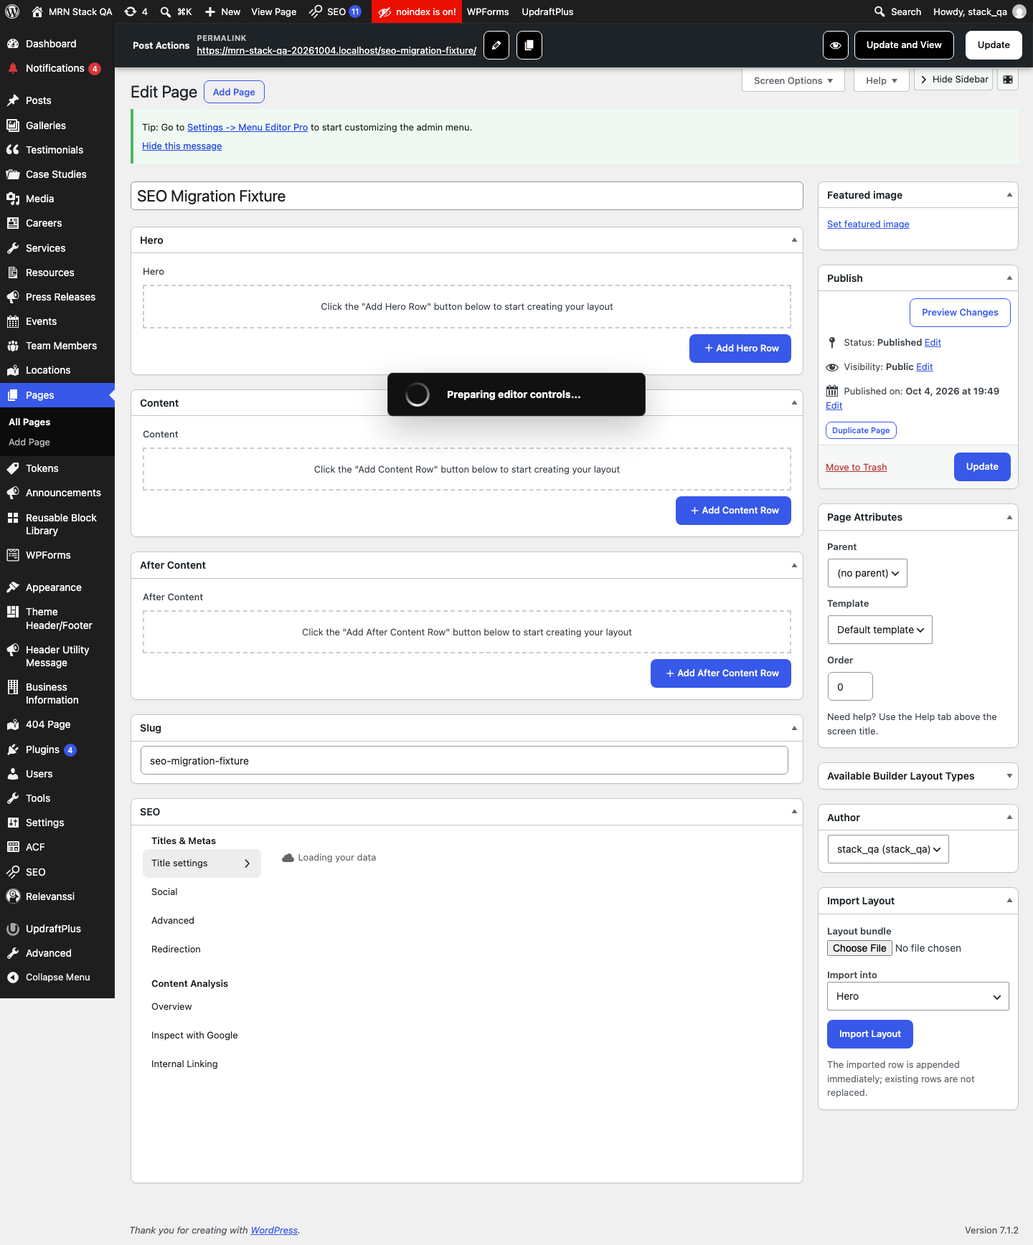
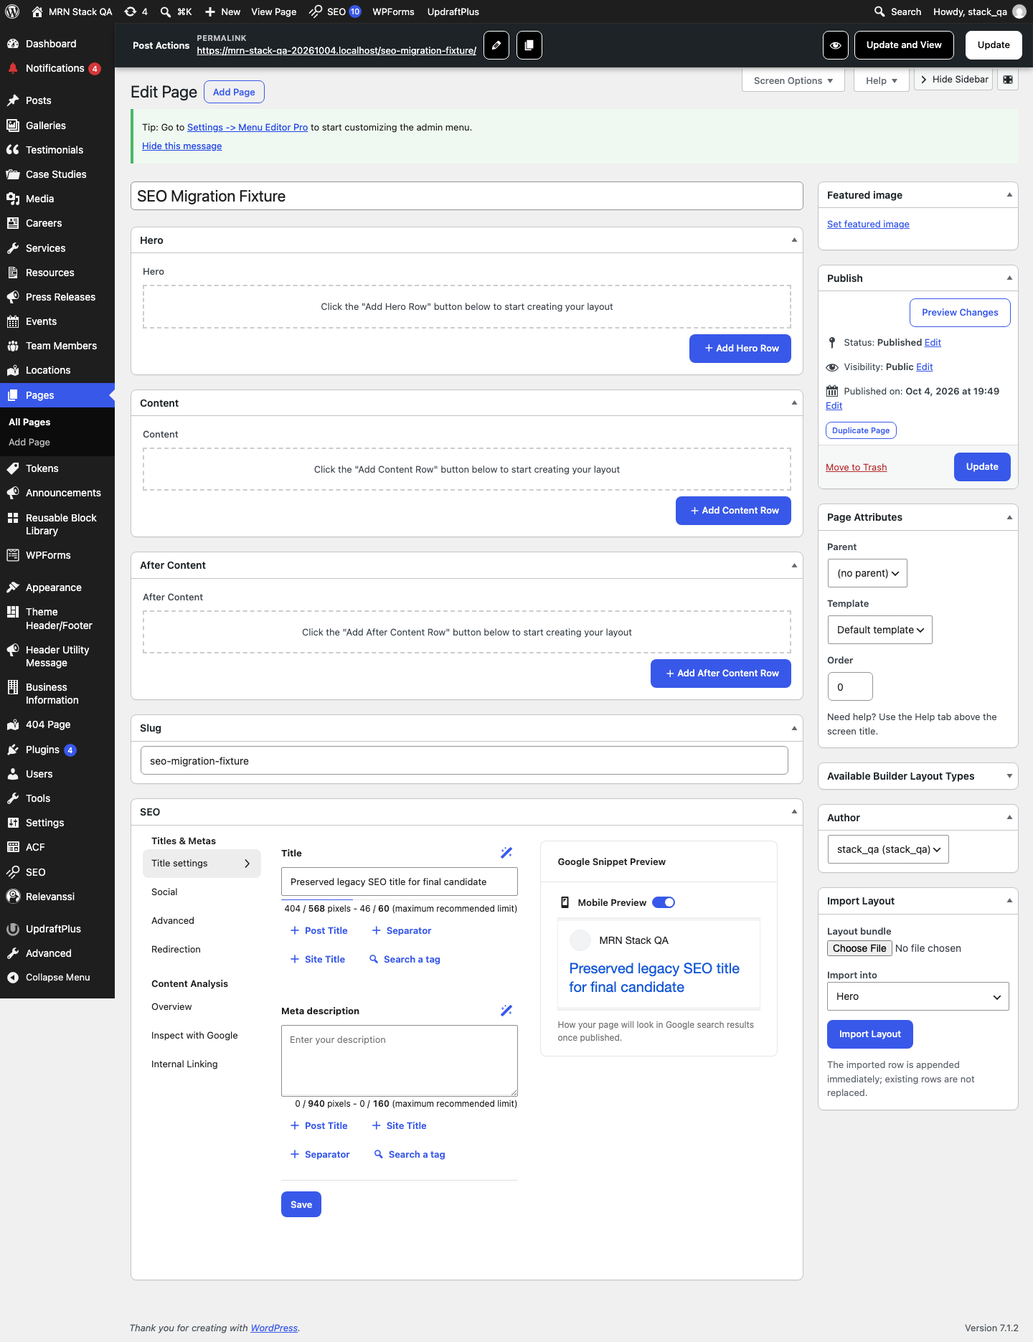
Finalize candidate source versions and qualification evidence

diff --git a/mu-plugins/mrn-updraft-local-retention/mrn-updraft-local-retention.php b/mu-plugins/mrn-updraft-local-retention/mrn-updraft-local-retention.php
@@ -3,7 +3,7 @@
  * Plugin Name: MRN Updraft Backup Policy
  * Description: Enforces the MRN Updraft backup policy, limits local backup sets, and repairs missing scheduled events.
  * Author: MRN Web Designs
- * Version: 0.6.0
+ * Version: 0.6.1
  */
 
 defined('ABSPATH') || exit;
@@ -345,7 +345,7 @@ function mrn_updraft_backup_policy_get_retention_status(): array {
 
 	return array(
 		'policy_version'        => '2026.09',
-		'plugin_version'        => '0.6.0',
+		'plugin_version'        => '0.6.1',
 		'expected_schedule'     => $expected_schedule,
 		'file_retention_cap'    => MRN_UPDRAFT_REMOTE_FILE_RETENTION_MAX_SETS,
 		'database_retention_cap' => MRN_UPDRAFT_REMOTE_DATABASE_RETENTION_MAX_SETS,

diff --git a/stack/mu-plugins/mrn-updraft-local-retention.php b/stack/mu-plugins/mrn-updraft-local-retention.php
@@ -2,7 +2,7 @@
 /**
  * Plugin Name: MRN Updraft Backup Policy
  * Description: Loads the MRN Updraft backup policy MU plugin from its subfolder.
- * Version: 0.6.0
+ * Version: 0.6.1
  *
  * Bootstrap loader for the Updraft local retention MU plugin.
  */

diff --git a/stack/release-evidence/2026-10-04-simplification/updraft-metadata-qa.md b/stack/release-evidence/2026-10-04-simplification/updraft-metadata-qa.md
@@ -1,0 +1,94 @@
+1) Changes Summary By Repo
+- In-scope repos detected: 1
+- Repo: /Users/khofmeyer/Development/MRN-stack-simplification-20261004
+  - branch: codex/stack-simplification-20261004
+  - commit: 10d51dd29fc0da458d1ea6e0e9495b5c47e7591b
+  - tag: none
+  - working tree: dirty
+- Changed files (project root):
+  - mu-plugins/mrn-updraft-local-retention/mrn-updraft-local-retention.php
+  - stack/CHANGELOG.md
+  - stack/STACK_VERSION.md
+  - stack/manifests/component-catalog.json
+  - stack/mu-plugins/mrn-updraft-local-retention.php
+
+2) Release Readiness Summary
+- Mode: standard
+- Scope: site+stack
+- Approved ref mode: working-tree
+- Playwright provider: engine
+- Project root: /Users/khofmeyer/Development/MRN-stack-simplification-20261004
+- Project: MRN-stack-simplification-20261004
+- Project kind: stack
+- Runtime target source: cli
+- Site path: /Users/khofmeyer/Development/MRN-sites/mrn-stack-qa-20261004/public
+- Site URL: https://mrn-stack-qa-20261004.localhost
+- Change policy: wordpress=1, frontend=0, admin=1, api=0, security=1, docs_only=0
+- Auto gates: smoke=auto, accessibility=auto, performance=auto, api=auto, phpcbf=never, secrets=auto, debug_artifacts=auto, php_compat=auto, readme_version=auto, cwv=auto
+
+3) Tool Execution Report
+| Tool | Ran/Skipped | Pass/Fail | Repo/Path | Notes |
+| --- | --- | --- | --- | --- |
+| PHP lint | Ran | Pass | /Users/khofmeyer/Development/MRN-stack-simplification-20261004 | 2 files linted |
+| PHPCS | Ran | Pass | /Users/khofmeyer/Development/MRN-stack-simplification-20261004 | 2 PHP target(s) passed security sniffs (memory_limit=2G, parallel=1) |
+| WordPress best practices | Ran | Pass | /Users/khofmeyer/Development/MRN-stack-simplification-20261004 | 2 PHP target(s) passed WordPress standard (memory_limit=2G, parallel=1, chunk_size=40) |
+| PHPCBF | Skipped | Pass | /Users/khofmeyer/Development/MRN-stack-simplification-20261004 | MRN_QA_RUN_PHPCBF=never |
+| PHP compatibility | Ran | Pass | /Users/khofmeyer/Development/MRN-stack-simplification-20261004 | 2 PHP target(s) compatible with testVersion=7.4-8.3 |
+| PHPStan | Ran | Pass | /Users/khofmeyer/Development/MRN-stack-simplification-20261004 | static analysis passed |
+| Semgrep | Ran | Pass | /Users/khofmeyer/Development/MRN-stack-simplification-20261004 | no blocking findings |
+| Secrets scan | Ran | Pass | /Users/khofmeyer/Development/MRN-stack-simplification-20261004 | 3 file(s) scanned for hardcoded secrets |
+| Debug artifact scan | Ran | Pass | /Users/khofmeyer/Development/MRN-stack-simplification-20261004 | 2 file(s) scanned for debug artifacts |
+| WordPress API surface audit | Skipped | Pass | /Users/khofmeyer/Development/MRN-stack-simplification-20261004 | not applicable: no API-related changes detected |
+| WordPress API runtime smoke | Ran | Pass | https://mrn-stack-qa-20261004.localhost/wp-json/ | REST index returned HTTP 200 |
+| git diff --check | Ran | Pass | /Users/khofmeyer/Development/MRN-stack-simplification-20261004 | no whitespace errors |
+| Readme/version consistency | Skipped | Pass | /Users/khofmeyer/Development/MRN-stack-simplification-20261004 | not applicable: no plugin main file or theme style.css detected |
+| audit-config-helper-parity.sh | Ran | Pass (with warnings) | /Users/khofmeyer/Development/MRN-stack-simplification-20261004/stack/scripts/audit-config-helper-parity.sh | advisory mode: nethues-sandbox.mrndev.io,nethues-stack,yes,0.1.43,0.1.64,mismatch,nethues-stack:nethues-stack,yes,yes swccp.mrndev.io,swccp-stack,yes,0.1.53,0.1.64,mismatch,swccp-stack:swccp-stack,yes,yes therapyinnovations.mrndev.io,therapyinnovations,no,missing,0.1.64,n/a,missing:missing,no,no trilliant.mrndev.io,trilliant-stack,yes,0.1.68,0.1.64,mismatch,trilliant-stack:trilliant-stack,yes,yes tutorlms.mrndev.io,tutorlms,no,missing,0.1.64,n/a,missing:missing,no,no Parity/readiness failures: 7  |
+| qa-theme.sh | Skipped | Pass | /Users/khofmeyer/Development/MRN-stack-simplification-20261004/stack/scripts/qa-theme.sh | not applicable: skipped by scope |
+| qa-security.sh | Ran | Pass | /Users/khofmeyer/Development/MRN-stack-simplification-20261004/stack/scripts/qa-security.sh | security QA passed for 1 theme target(s) |
+| qa-playwright-local-stack-site.sh | Ran | Pass | /Users/khofmeyer/Development/MRN-qa-engine/tools/run-playwright-smoke.sh | engine, scope=public |
+| Accessibility smoke | Ran | Pass | /Users/khofmeyer/Development/MRN-qa-engine/tools/run-accessibility-smoke.sh | homepage and /contact/ accessibility smoke passed \| /: no aria-expanded/aria-haspopup="dialog" interactive elements found. /contact/: no aria-expanded/aria-haspopup="dialog" interactive elements found.  |
+| qa-page-speed.sh | Ran | Pass | /Users/khofmeyer/Development/MRN-stack-simplification-20261004/stack/scripts/qa-page-speed.sh | page-speed checks passed (ttfb<=2.0s,total<=5.0s) |
+| Core Web Vitals | Ran | Pass | /Users/khofmeyer/Development/MRN-qa-engine/tools/run-web-vitals-smoke.sh | 0 poor, 0 needs-improvement across 2 path(s) \| /: LCP=428ms (good), CLS=0 (good), INP=not measured \| /contact/: LCP=508ms (good), CLS=0 (good), INP=not measured |
+| qa-license-coverage.sh | Ran | Pass | /Users/khofmeyer/Development/MRN-stack-simplification-20261004/stack/scripts/qa-license-coverage.sh | all packaged plugins have a license mapping or declared exemption |
+| qa-rollout-contract.sh | Ran | Pass (with warnings) | /Users/khofmeyer/Development/MRN-stack-simplification-20261004/stack/scripts/qa-rollout-contract.sh | advisory mode: PASS: Required Stack plugin manifest includes mrn-universal-sticky-bar FAIL: Standalone sticky-toolbar fallback not found: /Users/khofmeyer/Development/MRN-stack-simplification-20261004/plugins/mrn-universal-sticky-bar/includes/mrn-sticky-settings-toolbar.php  |
+| qa-local-stack-site.sh | Ran | Pass | /Users/khofmeyer/Development/MRN-stack-simplification-20261004/stack/scripts/qa-local-stack-site.sh | passed |
+| ESLint | Skipped | Pass | /Users/khofmeyer/Development/MRN-stack-simplification-20261004 | not applicable: root package.json missing |
+| Stylelint | Skipped | Pass | /Users/khofmeyer/Development/MRN-stack-simplification-20261004 | not applicable: root package.json missing |
+| Composer audit | Ran | Pass | /Users/khofmeyer/Development/MRN-stack-simplification-20261004 | no known advisories |
+| npm audit | Skipped | Pass | /Users/khofmeyer/Development/MRN-stack-simplification-20261004 | not applicable: root package-lock.json missing |
+| PHPUnit | Skipped | Pass | /Users/khofmeyer/Development/MRN-stack-simplification-20261004 | not applicable: phpunit or config missing |
+| **OVERALL** | Ran | Pass | all in-scope repos | 100% SUCCESS |
+
+**Release QA Result: 100% SUCCESS**
+
+4) Verification Steps
+- Verified repo release state for each in-scope repository.
+- Classified changes into WordPress, frontend, admin, API, security, and docs-only policy buckets.
+- Executed standardized QA toolchain rows with pass/fail evidence.
+- Applied policy-aware WordPress/API/accessibility/performance/runtime checks.
+
+5) Missing Release Items
+- none
+
+6) Rollout Risks
+- Deploying out of order can desync site and stack expectations; verify scope before release.
+
+7) Security Concerns
+- Review nonce, capability, sanitization, and escaping in any failing PHPCS/Semgrep/API rows.
+
+8) Accessibility Concerns
+- Accessibility smoke runs automatically for frontend/release runtime targets; complete manual WCAG review for material UI changes.
+
+9) Performance Concerns
+- Performance timing runs automatically for frontend/release runtime targets; complete deeper Lighthouse review for material rendering changes.
+
+10) Classification:
+- release blockers
+- none
+- should-fix-before-release
+- none
+- follow-up items
+- none
+
+11) Cross-Repo Coordination Risks
+- Site+stack scope selected: coordinate stack rollout order before deploy.

diff --git a/stack/release-evidence/2026-10-04-simplification/full-release-qa.md b/stack/release-evidence/2026-10-04-simplification/full-release-qa.md
@@ -1,0 +1,89 @@
+1) Changes Summary By Repo
+- In-scope repos detected: 1
+- Repo: /Users/khofmeyer/Development/MRN-stack-simplification-20261004
+  - branch: codex/stack-simplification-20261004
+  - commit: 94670df5b23be7e11b23f19d5230aa1006bb1385
+  - tag: none
+  - working tree: clean
+- Changed files: none detected
+
+2) Release Readiness Summary
+- Mode: release
+- Scope: site+stack
+- Approved ref mode: approved-clean-working-tree
+- Playwright provider: engine
+- Project root: /Users/khofmeyer/Development/MRN-stack-simplification-20261004
+- Project: MRN-stack-simplification-20261004
+- Project kind: stack
+- Runtime target source: cli
+- Site path: /Users/khofmeyer/Development/MRN-sites/mrn-stack-qa-20261004/public
+- Site URL: https://mrn-stack-qa-20261004.localhost
+- Change policy: wordpress=1, frontend=1, admin=1, api=1, security=1, docs_only=0
+- Auto gates: smoke=auto, accessibility=auto, performance=auto, api=auto, phpcbf=never, secrets=auto, debug_artifacts=auto, php_compat=auto, readme_version=auto, cwv=auto
+
+3) Tool Execution Report
+| Tool | Ran/Skipped | Pass/Fail | Repo/Path | Notes |
+| --- | --- | --- | --- | --- |
+| PHP lint | Ran | Pass | /Users/khofmeyer/Development/MRN-stack-simplification-20261004 | 154 files linted |
+| PHPCS | Ran | Pass | /Users/khofmeyer/Development/MRN-stack-simplification-20261004 | 23 PHP target(s) passed security sniffs (memory_limit=2G, parallel=1) |
+| WordPress best practices | Ran | Pass | /Users/khofmeyer/Development/MRN-stack-simplification-20261004 | 23 PHP target(s) passed WordPress standard (memory_limit=2G, parallel=1, chunk_size=40) |
+| PHPCBF | Skipped | Pass | /Users/khofmeyer/Development/MRN-stack-simplification-20261004 | MRN_QA_RUN_PHPCBF=never |
+| PHP compatibility | Ran | Pass | /Users/khofmeyer/Development/MRN-stack-simplification-20261004 | 23 PHP target(s) compatible with testVersion=7.4-8.3 |
+| PHPStan | Ran | Pass | /Users/khofmeyer/Development/MRN-stack-simplification-20261004 | static analysis passed |
+| Semgrep | Ran | Pass | /Users/khofmeyer/Development/MRN-stack-simplification-20261004 | no blocking findings |
+| Secrets scan | Ran | Pass | /Users/khofmeyer/Development/MRN-stack-simplification-20261004 | 288 file(s) scanned for hardcoded secrets |
+| Debug artifact scan | Ran | Pass | /Users/khofmeyer/Development/MRN-stack-simplification-20261004 | 181 file(s) scanned for debug artifacts (2 error_log() call(s) noted separately, informational only) |
+| WordPress API surface audit | Ran | Pass | /Users/khofmeyer/Development/MRN-stack-simplification-20261004 | 4 API surface file(s) checked |
+| WordPress API runtime smoke | Ran | Pass | https://mrn-stack-qa-20261004.localhost/wp-json/ | REST index returned HTTP 200 |
+| git diff --check | Ran | Pass | /Users/khofmeyer/Development/MRN-stack-simplification-20261004 | no whitespace errors |
+| Readme/version consistency | Skipped | Pass | /Users/khofmeyer/Development/MRN-stack-simplification-20261004 | not applicable: no plugin main file or theme style.css detected |
+| audit-config-helper-parity.sh | Ran | Pass (with warnings) | /Users/khofmeyer/Development/MRN-stack-simplification-20261004/stack/scripts/audit-config-helper-parity.sh | advisory mode: nethues-sandbox.mrndev.io,nethues-stack,yes,0.1.43,0.1.64,mismatch,nethues-stack:nethues-stack,yes,yes swccp.mrndev.io,swccp-stack,yes,0.1.53,0.1.64,mismatch,swccp-stack:swccp-stack,yes,yes therapyinnovations.mrndev.io,therapyinnovations,no,missing,0.1.64,n/a,missing:missing,no,no trilliant.mrndev.io,trilliant-stack,yes,0.1.68,0.1.64,mismatch,trilliant-stack:trilliant-stack,yes,yes tutorlms.mrndev.io,tutorlms,no,missing,0.1.64,n/a,missing:missing,no,no Parity/readiness failures: 7  |
+| qa-theme.sh | Ran | Pass | /Users/khofmeyer/Development/MRN-stack-simplification-20261004/stack/scripts/qa-theme.sh | theme QA passed |
+| qa-security.sh | Ran | Pass | /Users/khofmeyer/Development/MRN-stack-simplification-20261004/stack/scripts/qa-security.sh | security QA passed for 1 theme target(s) |
+| qa-playwright-local-stack-site.sh | Ran | Pass | /Users/khofmeyer/Development/MRN-qa-engine/tools/run-playwright-smoke.sh | engine, scope=public |
+| Accessibility smoke | Ran | Pass | /Users/khofmeyer/Development/MRN-qa-engine/tools/run-accessibility-smoke.sh | homepage and /contact/ accessibility smoke passed \| /: no aria-expanded/aria-haspopup="dialog" interactive elements found. /contact/: no aria-expanded/aria-haspopup="dialog" interactive elements found.  |
+| qa-page-speed.sh | Ran | Pass | /Users/khofmeyer/Development/MRN-stack-simplification-20261004/stack/scripts/qa-page-speed.sh | page-speed checks passed (ttfb<=2.0s,total<=5.0s) |
+| Core Web Vitals | Ran | Pass | /Users/khofmeyer/Development/MRN-qa-engine/tools/run-web-vitals-smoke.sh | 0 poor, 0 needs-improvement across 2 path(s) \| /: LCP=984ms (good), CLS=0 (good), INP=16ms (good) \| /contact/: LCP=884ms (good), CLS=0 (good), INP=not measured |
+| qa-license-coverage.sh | Ran | Pass | /Users/khofmeyer/Development/MRN-stack-simplification-20261004/stack/scripts/qa-license-coverage.sh | all packaged plugins have a license mapping or declared exemption |
+| qa-rollout-contract.sh | Ran | Pass (with warnings) | /Users/khofmeyer/Development/MRN-stack-simplification-20261004/stack/scripts/qa-rollout-contract.sh | advisory mode: PASS: Required Stack plugin manifest includes mrn-universal-sticky-bar FAIL: Standalone sticky-toolbar fallback not found: /Users/khofmeyer/Development/MRN-stack-simplification-20261004/plugins/mrn-universal-sticky-bar/includes/mrn-sticky-settings-toolbar.php  |
+| qa-local-stack-site.sh | Ran | Pass | /Users/khofmeyer/Development/MRN-stack-simplification-20261004/stack/scripts/qa-local-stack-site.sh | passed |
+| ESLint | Skipped | Pass | /Users/khofmeyer/Development/MRN-stack-simplification-20261004 | not applicable: root package.json missing |
+| Stylelint | Skipped | Pass | /Users/khofmeyer/Development/MRN-stack-simplification-20261004 | not applicable: root package.json missing |
+| Composer audit | Ran | Pass | /Users/khofmeyer/Development/MRN-stack-simplification-20261004 | no known advisories |
+| npm audit | Skipped | Pass | /Users/khofmeyer/Development/MRN-stack-simplification-20261004 | not applicable: root package-lock.json missing |
+| PHPUnit | Skipped | Pass | /Users/khofmeyer/Development/MRN-stack-simplification-20261004 | not applicable: phpunit or config missing |
+| **OVERALL** | Ran | Pass | all in-scope repos | 100% SUCCESS |
+
+**Release QA Result: 100% SUCCESS**
+
+4) Verification Steps
+- Verified repo release state for each in-scope repository.
+- Classified changes into WordPress, frontend, admin, API, security, and docs-only policy buckets.
+- Executed standardized QA toolchain rows with pass/fail evidence.
+- Applied policy-aware WordPress/API/accessibility/performance/runtime checks.
+
+5) Missing Release Items
+- none
+
+6) Rollout Risks
+- Deploying out of order can desync site and stack expectations; verify scope before release.
+
+7) Security Concerns
+- Review nonce, capability, sanitization, and escaping in any failing PHPCS/Semgrep/API rows.
+
+8) Accessibility Concerns
+- Accessibility smoke runs automatically for frontend/release runtime targets; complete manual WCAG review for material UI changes.
+
+9) Performance Concerns
+- Performance timing runs automatically for frontend/release runtime targets; complete deeper Lighthouse review for material rendering changes.
+
+10) Classification:
+- release blockers
+- none
+- should-fix-before-release
+- none
+- follow-up items
+- none
+
+11) Cross-Repo Coordination Risks
+- Site+stack scope selected: coordinate stack rollout order before deploy.

diff --git a/stack/STACK_VERSION.md b/stack/STACK_VERSION.md
@@ -1,7 +1,7 @@
 # Stack Version
 
 ## Candidate Release
-- Stack release: `2026.10.04-stack-simplification`
+- Stack release: `2026.10.04-stack-simplification-r2`
 - Release date: `2026-10-04`
 - Status: `locked release candidate; production promotion and optional integration qualification remain gated`
 
@@ -23,8 +23,8 @@
   - `mrn-public-security-hardening` `0.4.3`
   - `mrn-schema-bridge` `0.7.0`
   - `mrn-site-colors` / `Site Styles` `0.1.39`
-  - `mrn-updraft-backup-policy-loader` `0.6.0`
-  - `mrn-updraft-local-retention` `0.6.0`
+  - `mrn-updraft-backup-policy-loader` `0.6.1`
+  - `mrn-updraft-local-retention` `0.6.1`
 - Standard plugins:
   - `background-video-popout-disabler` `1.0.2`
   - `mrn-acf-focal-point` `1.1.2`
@@ -52,12 +52,18 @@
 - License manifest: [`manifests/licenses.txt`](/Users/khofmeyer/Development/MRN/stack/manifests/licenses.txt)
 - Importer manifest: [`manifests/importers.txt`](/Users/khofmeyer/Development/MRN/stack/manifests/importers.txt)
 
-## Notes
+## Candidate scope
 - October 4 reconciles native SEOPress 10.3, Post SMTP, retired duplicate editors,
   metadata-preserving migration and development SEO controls. The prior verified
   release remains `2026.10.02-ame-menu-visibility` on its recorded target.
   The candidate does not authorize a site migration. See
   `docs/STACK-SIMPLIFICATION-2026-10.md` and the October 4 release evidence.
+
+## Historical release notes
+
+The entries below describe their dated releases and original target authorizations;
+they do not establish deployment or qualification of the October 4 candidate.
+
 - Public Security Hardening `0.4.3` respects Admin Menu Editor's finalized
   visibility, permissions, labels and placement. It no longer restores a
   hidden Advanced/Public Security menu after AME has applied role rules.
@@ -149,10 +155,7 @@
   split home/siteurl installs. Default endpoint protection and encoded query
   arguments are preserved. The existing login container gains a main landmark
   without altering its structure. Component release QA and real HTTP flows pass.
-- Apart from MRN Tokens, this candidate retains all other component versions and exact source trees
-  from the prior complete Fleet release. Site qualification, prerequisites,
-  fresh remote backup and post-deployment verification remain required.
-- This file tracks the current stack baseline, not every historical package ever shipped.
+- Site qualification, prerequisites, fresh remote backup and post-deployment verification remain required.
 - Third-party packages in `manifests/plugins.txt` keep their own upstream versions and package filenames.
 - Current baseline keeps the canonical AME export payloads, importer/manifests, bootstrap helper, shared shim, and stack MU wrapper loaders tracked in the main repo so release/deploy flows can verify and sync them consistently.
 - Current baseline includes bounded recovery inventory and guarded reconciliation for exact, unchanged incomplete rollout markers that are physically empty or contain only recognized empty apply scaffolding, without introducing recursive deletion.

diff --git a/stack/release-evidence/2026-10-04-simplification/README.md b/stack/release-evidence/2026-10-04-simplification/README.md
@@ -1,6 +1,10 @@
 # October 4 Stack reconciliation evidence
 
-The source is merged in MRN PR 177 and the component PRs linked in the decision record. Reports preserve their actual scope and date. The final Stack source/runtime report passes strict static analysis, API, browser, accessibility, performance and CWV. It is a standard/component run, not fleet release signoff; its parity row remains advisory and identifies older development sites.
+The source is merged in MRN PR 177 and the component PRs linked in the decision record. Reports preserve their actual scope and date. The final Stack source/runtime report passes strict static analysis, API, browser, accessibility, performance and CWV.
+
+`full-release-qa.md` is the broader release-mode run against `mrn-stack-qa-20261004.localhost`. Its generated overall success label does **not** override advisory failures: seven development installations differ from the hosted Config Helper baseline, and the legacy rollout script cannot resolve the standalone sticky-toolbar source from the task worktree. The hosted source and exact candidate need independent rollout reconciliation. No production rollout or fleet signoff is established by that report. PHPCBF was intentionally disabled; root ESLint/Stylelint, npm audit and PHPUnit were inapplicable because their root configurations are absent. API, browser, accessibility, performance, PHP/static/security and Composer checks ran.
+
+`first-candidate-runtime.json` records a valid installed lock with no missing components, drift or legacy collisions on the isolated fixture. `first-candidate-mainwp-preflight.json` records read-only Gloves transport/storage qualification, not deployment. These receipts belong to the first candidate; r2 receipts are retained separately in the external artifact directory after sealing the final source and lock.
 
 `editor-browser.json` verifies an authenticated Classic Editor save, native SEOPress, absence of both screenshot controls and the obsolete breadcrumb box. `editor-migration-qa.json` verifies conflict refusal, metadata preservation, repeat application and rollback. `development-policy.json` verifies stored synthetic tracking settings remain available while frontend tracking is absent and noindex is present.
 

diff --git a/docs/STACK-SIMPLIFICATION-2026-10.md b/docs/STACK-SIMPLIFICATION-2026-10.md
@@ -59,7 +59,11 @@ Source reconciliation is merged. The immutable candidate is being qualified; it 
 
 The canonical Stack release and its optional integrations have different qualification boundaries. The default CAPTCHA package remains the registered 0.1.4 until the 0.2.0 deployment adapter and genuine-token qualification pass. Its merged 0.2.0 source and deterministic artifact are preserved as a candidate, not silently promoted.
 
-Existing site deployment receipts are historical evidence, not proof of this candidate. Remaining gates include full release QA, hosted package parity, exact target preflight/verification, and the shared asset adapter described below.
+The full release-mode QA run passed source, security, API, browser, accessibility, performance and CWV checks on the isolated Local Hub fixture. Its advisory parity and rollout rows are not release acceptance: seven older development copies differ from the hosted package, and the feature worktree cannot resolve the standalone sticky-toolbar source at the legacy relative path. The report's generated “100% SUCCESS” label must not be read as fleet readiness. See `stack/release-evidence/2026-10-04-simplification/full-release-qa.md` and its README.
+
+The first locked candidate was assembled twice with identical package bytes, installed on the local fixture and read back with no missing components, drift or legacy collisions. Fresh MainWP inventory for `https://gloves-online.com/` then passed the exact 29-component package preflight, preserving its active child theme. This was read-only: production was not deployed or migrated. Revision r2 corrects the Updraft fixture tree's version and seals source before the separate lock commit; it must receive its own package/readback/preflight receipts.
+
+Existing site deployment receipts are historical evidence, not proof of this candidate. Hosted package parity, actual named-target deployment/verification and the shared asset adapter below remain required before release promotion.
 
 ## Preservation
 

diff --git a/stack/CHANGELOG.md b/stack/CHANGELOG.md
@@ -1,10 +1,11 @@
 # Stack Changelog
 
-## 2026.10.04-stack-simplification (candidate)
+## 2026.10.04-stack-simplification-r2 (candidate)
 
 - Default installation uses SEOPress Free/PRO 10.3 and Post SMTP; SEO Helper, ACF Character Count, AI Assist and Editor Enhancements remain catalog-only.
 - Schema Bridge 0.7.0 removes the duplicate SEO & Schema editor and save callback while retaining historical schema output. Config Helper 0.1.70 retires redundant breadcrumb controls on native-provider sites.
 - A guarded WP-CLI migration reconciles legacy metadata, refuses conflicts, deactivates duplicate editors and retains rollback journals and source data.
+- Updraft policy component 0.6.1 accounts for the corrected test-fixture signature in its immutable source tree; retention behavior and settings are unchanged.
 - Parent theme 1.5.3 corrects inherited QA formatting and fixture annotations without changing rendering.
 - Environment Runtime 0.6.0 allows native SEO editing on development while suppressing frontend indexing/tracking and disabled external jobs.
 - Preserve September planning evidence and the recovered 22-decision register. Operations service and comment/review CAPTCHA source are merged; external operational qualification remains separately gated.
